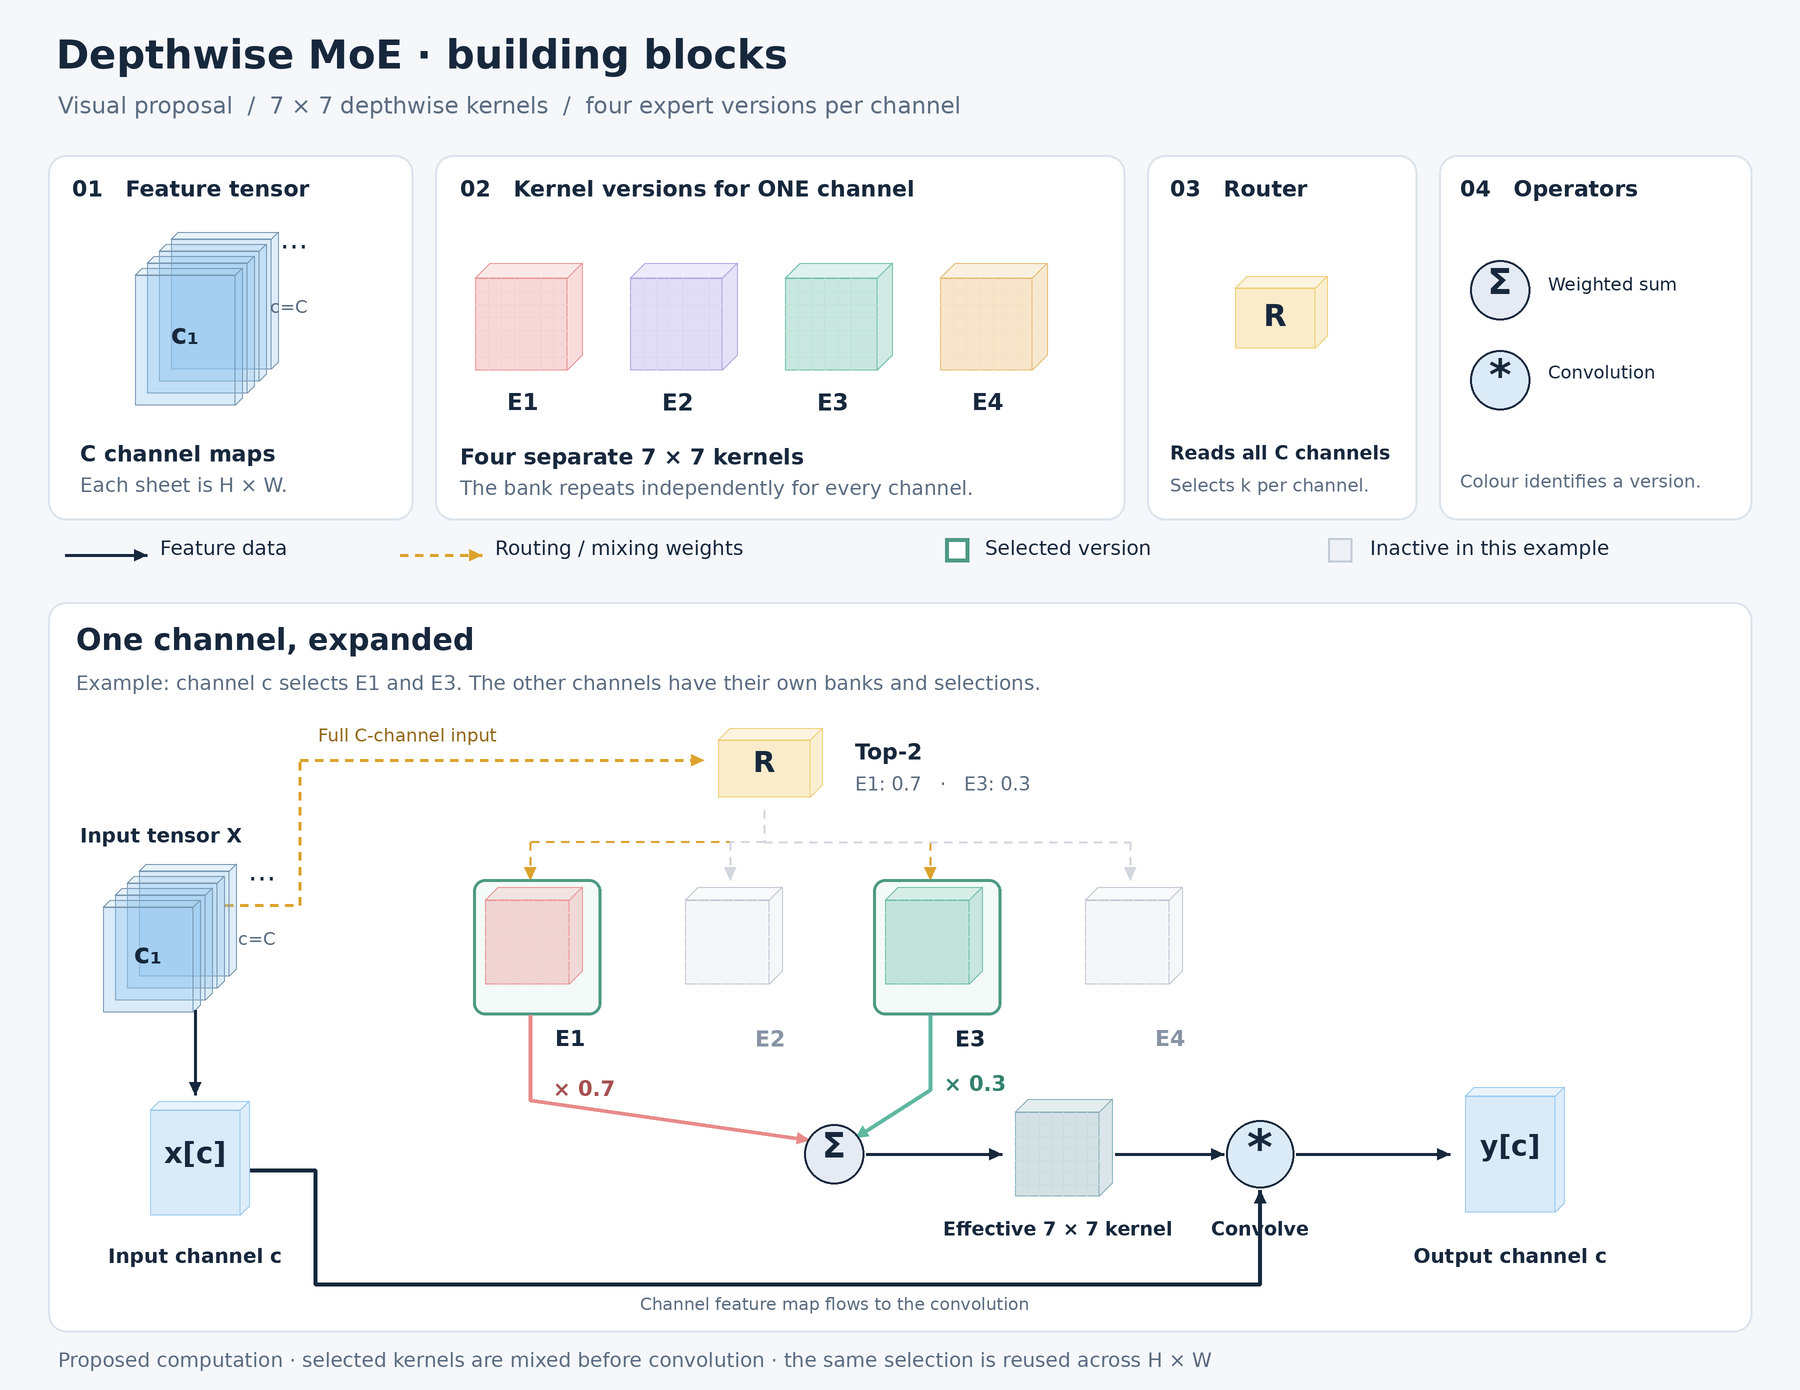
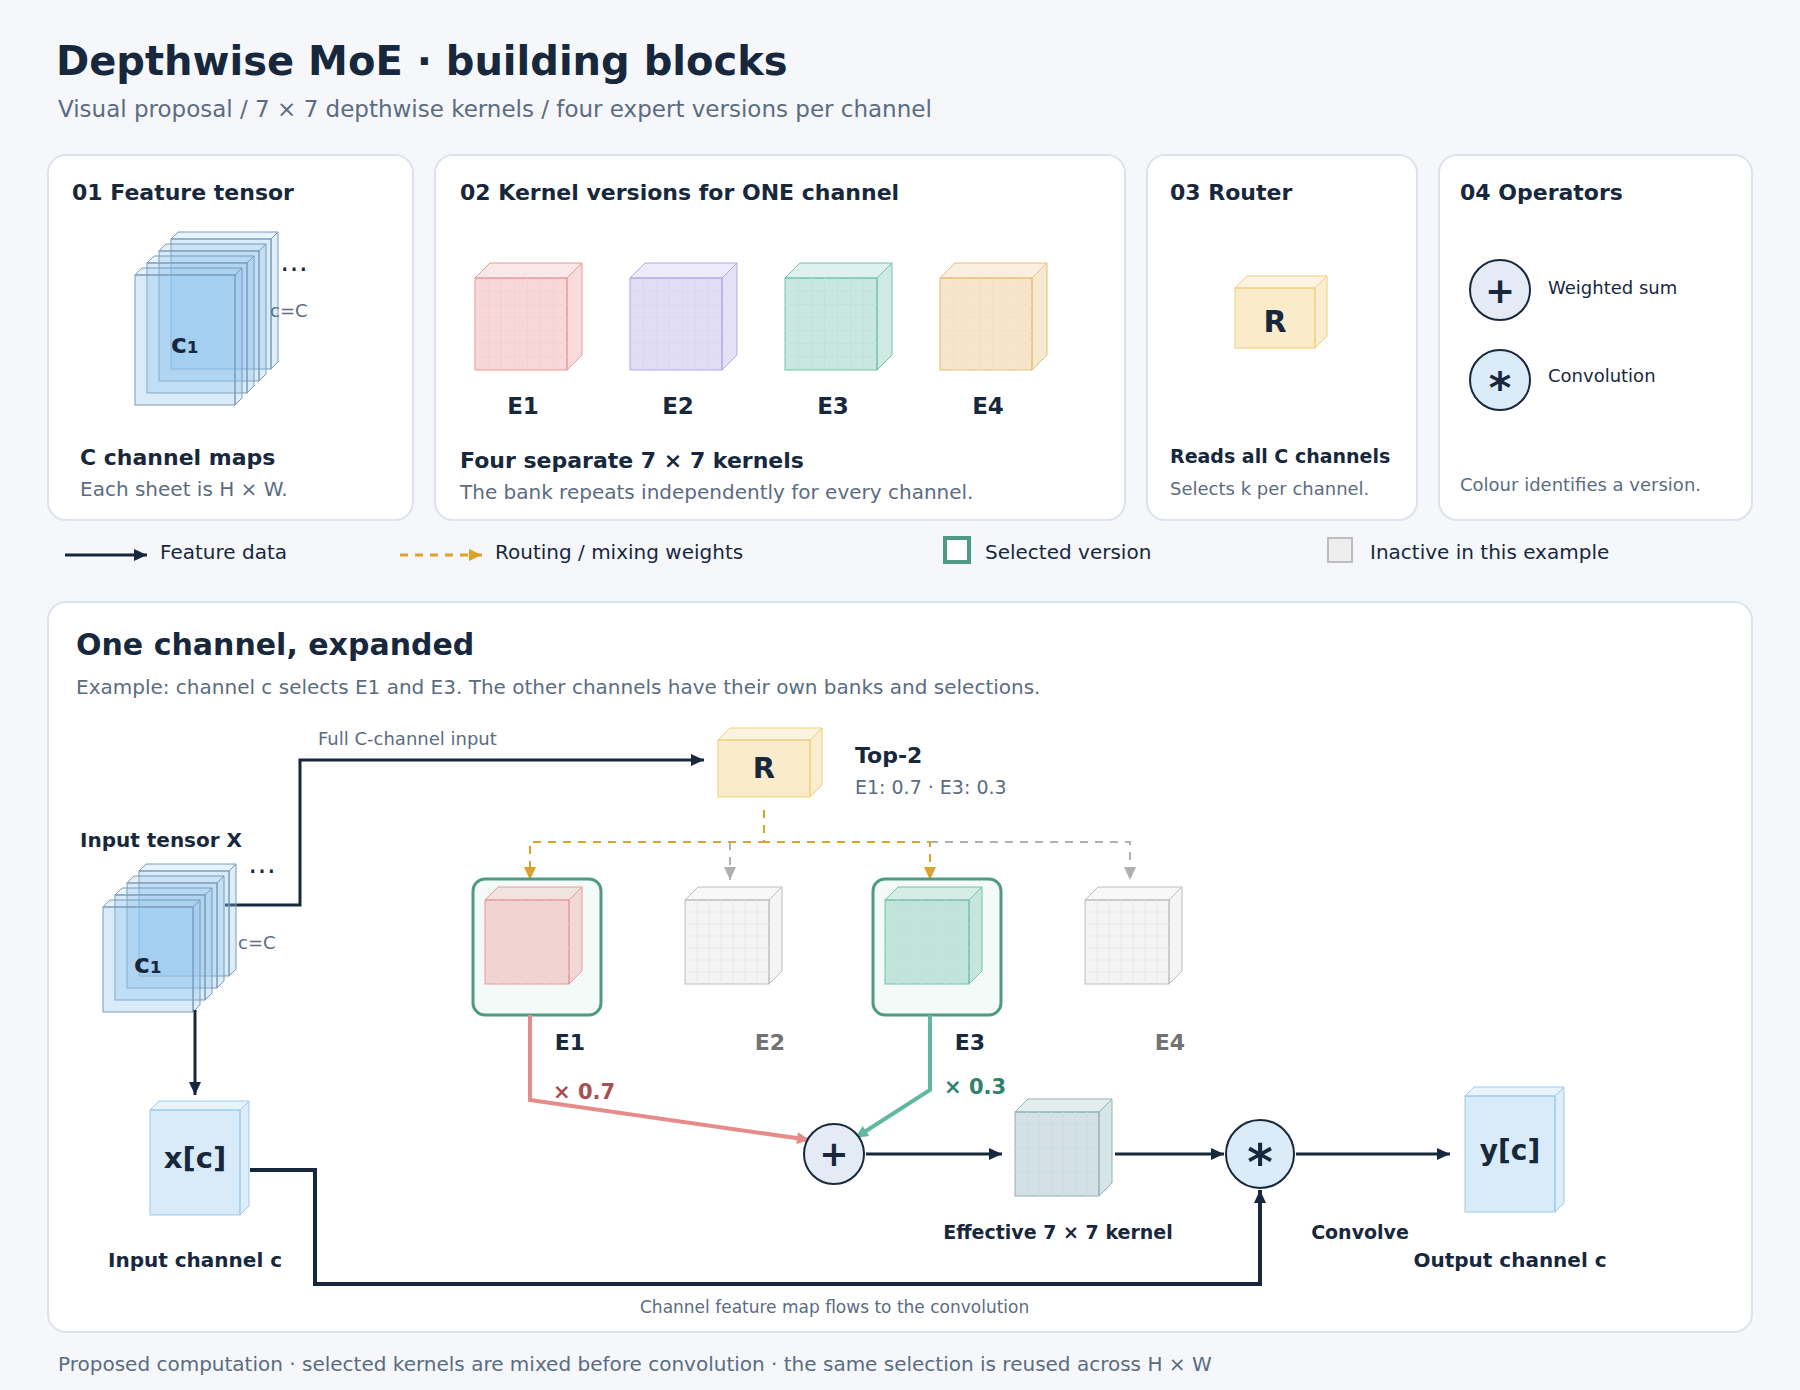
Keep diagram notation and inactive styling consistent

diff --git a/technical-diagrams/references/network-architecture.md b/technical-diagrams/references/network-architecture.md
@@ -13,6 +13,28 @@ Use for neural-network structure and computation inside a layer or mechanism.
 - Routers: distinct small components. Solid data arrows enter the router;
   dashed control/weight arrows leave it. A tensor sent to a router remains data.
 
+## Operator notation
+
+Use circled `+` for additive merge nodes throughout a figure family, including
+weighted sums and bias/shared-branch additions. Do not alternate `+` and `Σ`
+for the same merge. Use `×` for elementwise multiplication or scalar gating,
+with shapes or labels making the distinction clear; use `@` for matrix
+multiplication in explanatory formulas. Explicit publication notation can
+override these defaults, but keep the chosen convention consistent.
+
+Center glyphs visually inside operator nodes. Check the rendered glyph, not
+just its text anchor. Keep convolution explicitly labeled; do not let a generic
+multiplication symbol ambiguously stand for convolution.
+
+Combine adjacent additive merges when mathematically valid and clearer, including
+bias or shared-output inputs. Preserve gating, nonlinearities, shapes, and where
+bias is applied; do not move an addition across a transformation or add bias twice.
+Retain separate nodes if the intermediate result or execution order matters.
+
+During inspection, trace tensor flow both into and within routers using solid
+arrows, and decisions/gates using dashed arrows. Apply the shared inactive-state
+rules to every nested operator and connection, not only expert containers.
+
 ## Preserve computation
 
 Trace shapes, branch points, residual connections, and operator order. Distinguish
@@ -38,7 +60,7 @@ selection scope, and operation ordering needed to understand the claim.
 - [Accepted translucent MoE preview](../assets/examples/network-architecture.png)
 - [Editable SVG](../assets/examples/network-architecture.svg)
 
-This source example depicts a proposed depthwise MoE with four versions and top-2
-selection. Those are example settings. It originally uses a dashed full-tensor
-input into the router; when adapting it, use the clearer data/control distinction
-above. Preserve the accepted appearance without preserving that ambiguity.
+This example depicts a proposed depthwise MoE with four versions and top-2
+selection. Those are example settings. It retains the accepted translucent
+appearance with the revised circled-add notation, solid tensor input to the
+router, and neutral grey inactive branches.

diff --git a/technical-diagrams/references/visual-style.md b/technical-diagrams/references/visual-style.md
@@ -34,6 +34,30 @@ Use stable colors and identifiers across related views. Show repetition through
 a representative unit and a count, rather than drawing every repeated object.
 Keep omitted details explicit when they affect interpretation.
 
+## Consistency across figures
+
+Keep the same operation, object, and state visually consistent across related
+figures and before/after panels: symbols, colors, labels, and connection styles
+should agree. Preserve each diagram type's conventions when comparing different
+types; a dashed sequence return does not become a routing signal.
+
+An inactive section must be neutral grey throughout: weights, activations,
+operator glyphs, labels, outlines, and internal arrows. Do not leave a dark or
+colored operator inside a greyed block. Keep labels legible and identify the
+state in text or a legend. Grey only the inactive branch, not a shared upstream
+path that still feeds active branches. Distinguish inactive in this example from
+removed, unavailable, or unimplemented.
+
+When generating a figure family programmatically, reuse drawing primitives and
+style definitions for operators, arrows, and active/inactive states. Pass state
+through to child elements so individual renderers do not drift. Reuse existing
+helpers where practical; a single figure does not require a rendering framework.
+
+Inspect related exports together. Check every occurrence of an operator and
+every child of an inactive group, including arrowheads and annotations. Compare
+legends with the actual symbols and paths. Keep bundled examples aligned with
+the written conventions when those conventions change.
+
 ## Rendering and delivery
 
 Prefer editable SVG for custom diagrams, with a PNG preview; PDF is useful for a

diff --git a/technical-diagrams/SKILL.md b/technical-diagrams/SKILL.md
@@ -53,8 +53,9 @@ override these defaults.
    project's established diagram/artifact location; use a separate local output
    directory if none exists. Do not change implementation to produce a diagram.
 4. Inspect the rendered result at its intended size. Check arrow endpoints,
-   labels, clipping, overlaps, contrast, and technical correctness. Fix problems
-   before presenting it. If rendering is unavailable, say what remains unchecked.
+   labels, clipping, overlaps, contrast, and technical correctness. Compare related
+   diagrams for consistent notation and state styling, not just each in isolation.
+   Fix problems before presenting it. If rendering is unavailable, say what remains unchecked.
 5. Show the diagram inline where supported and link its editable source. Briefly
    explain its scope or assumptions. Revise the relevant view when feedback arrives.
 
